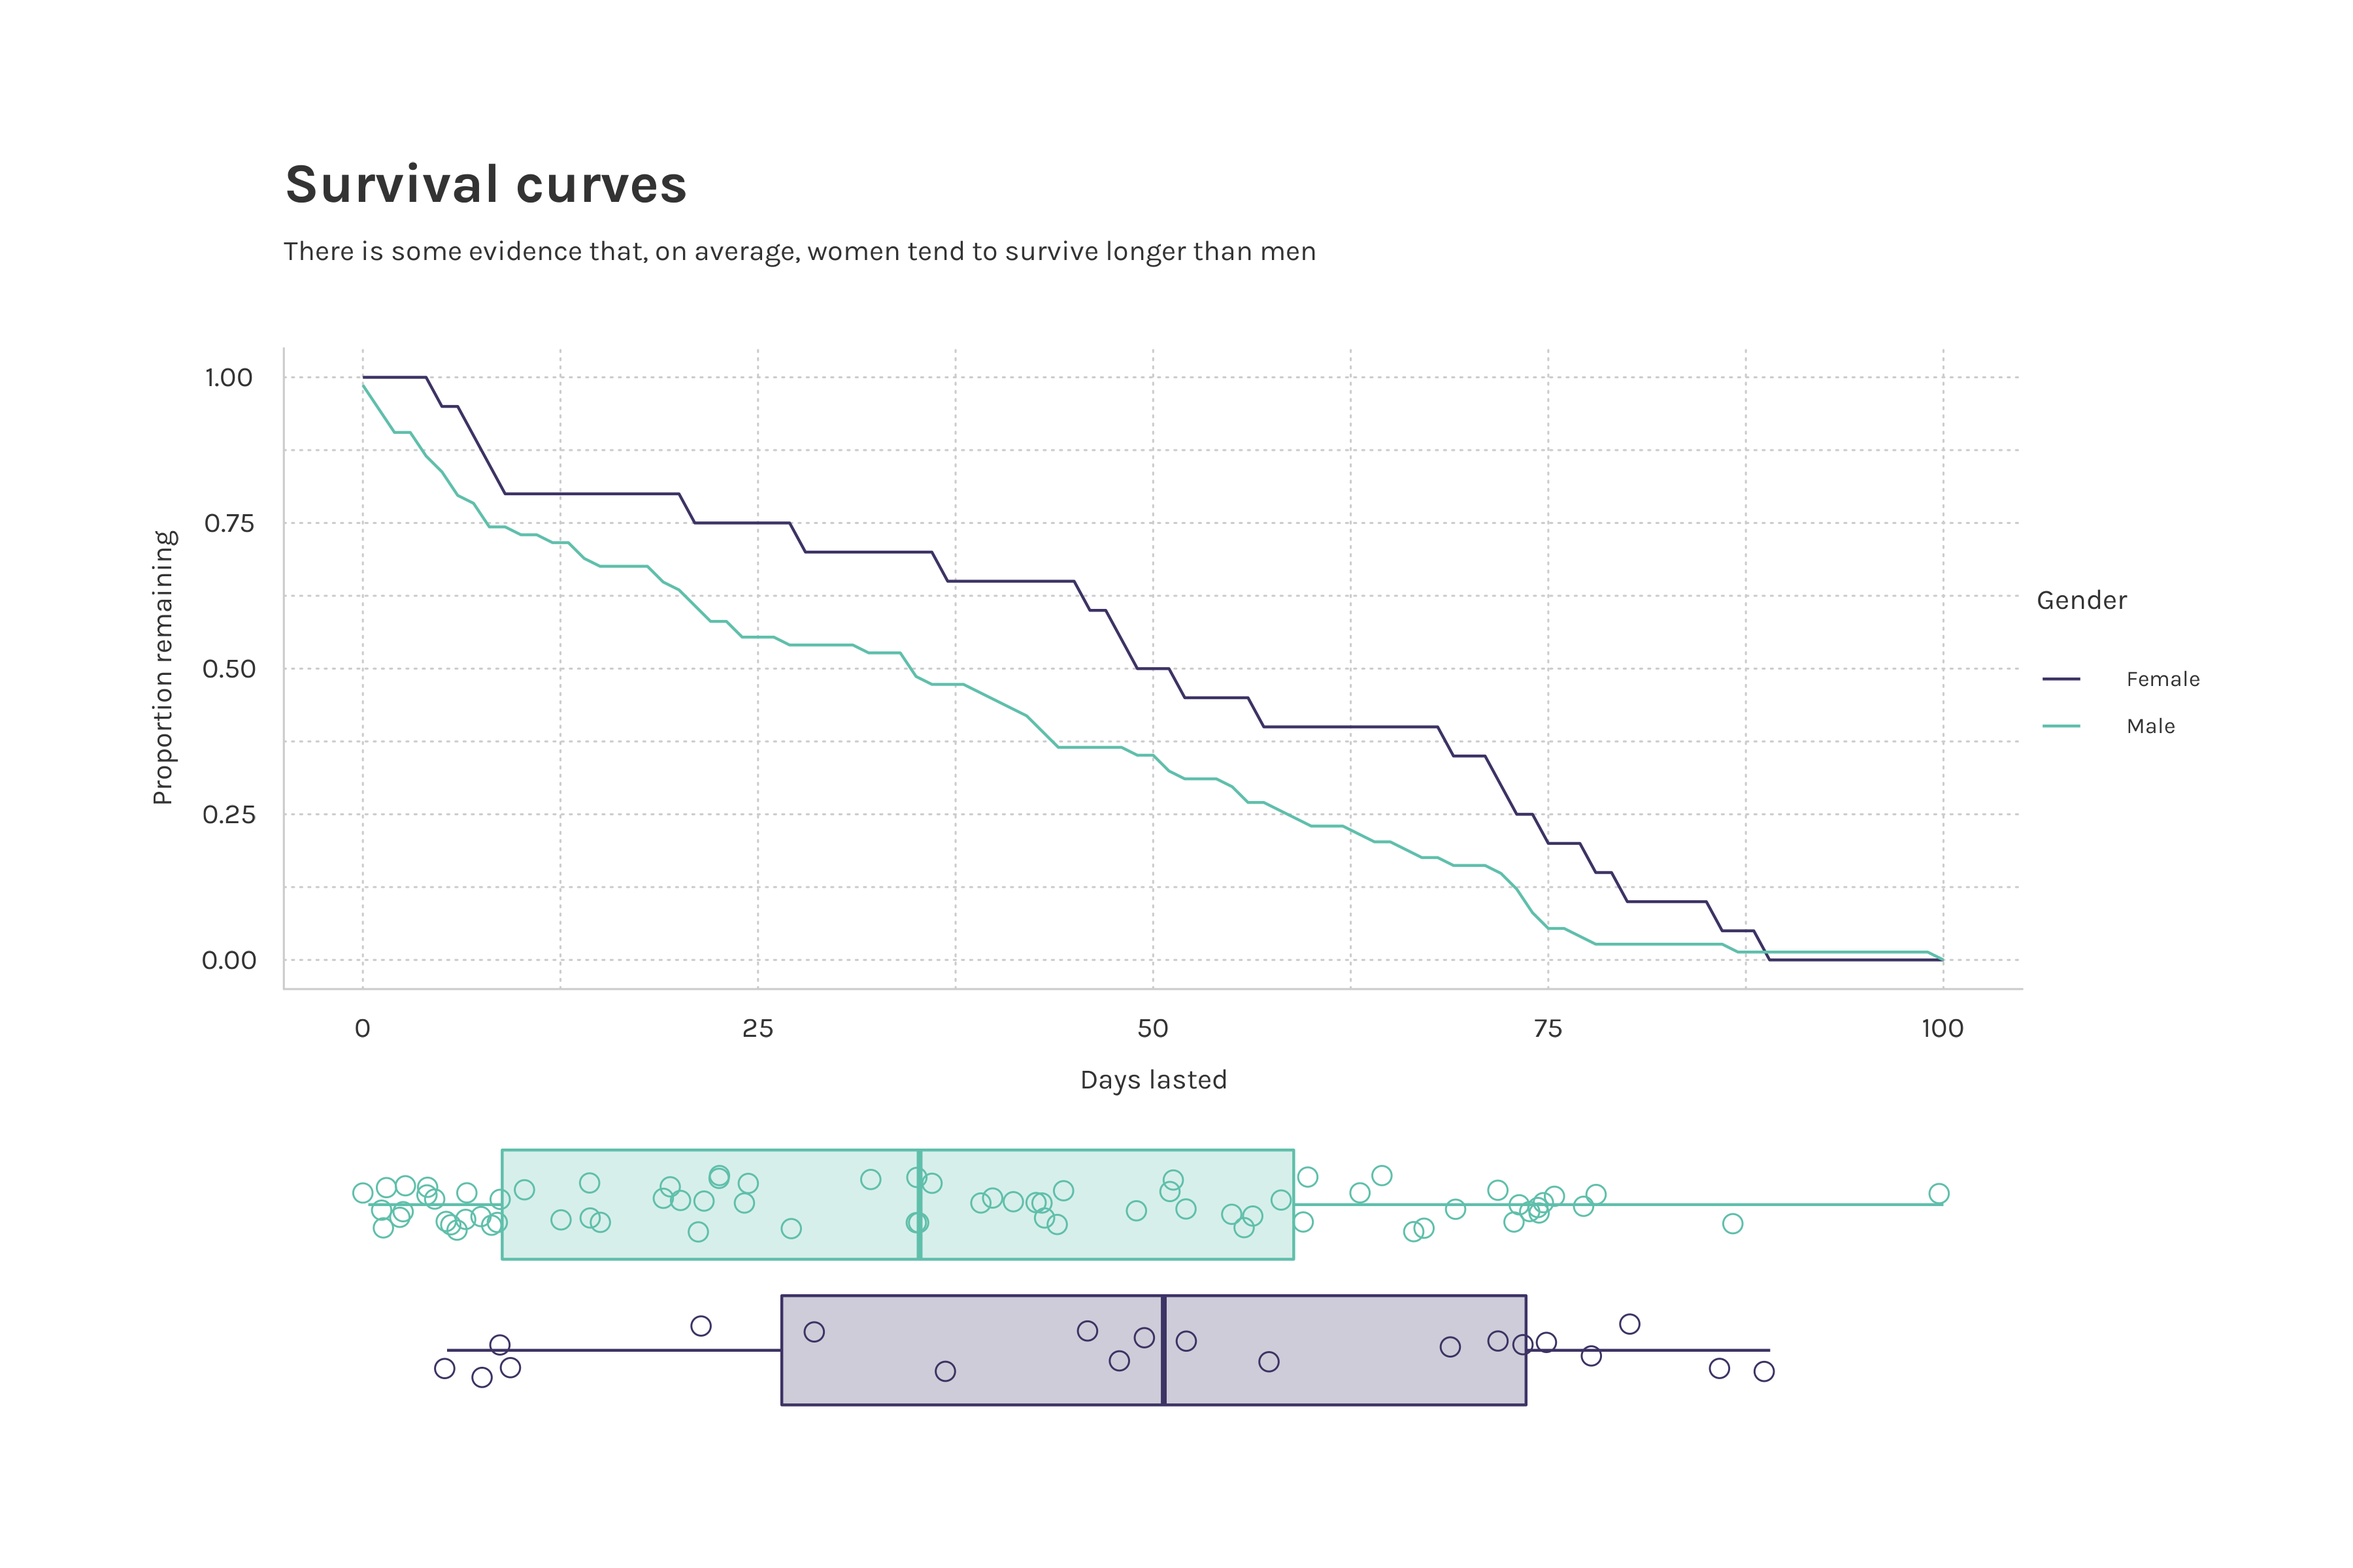
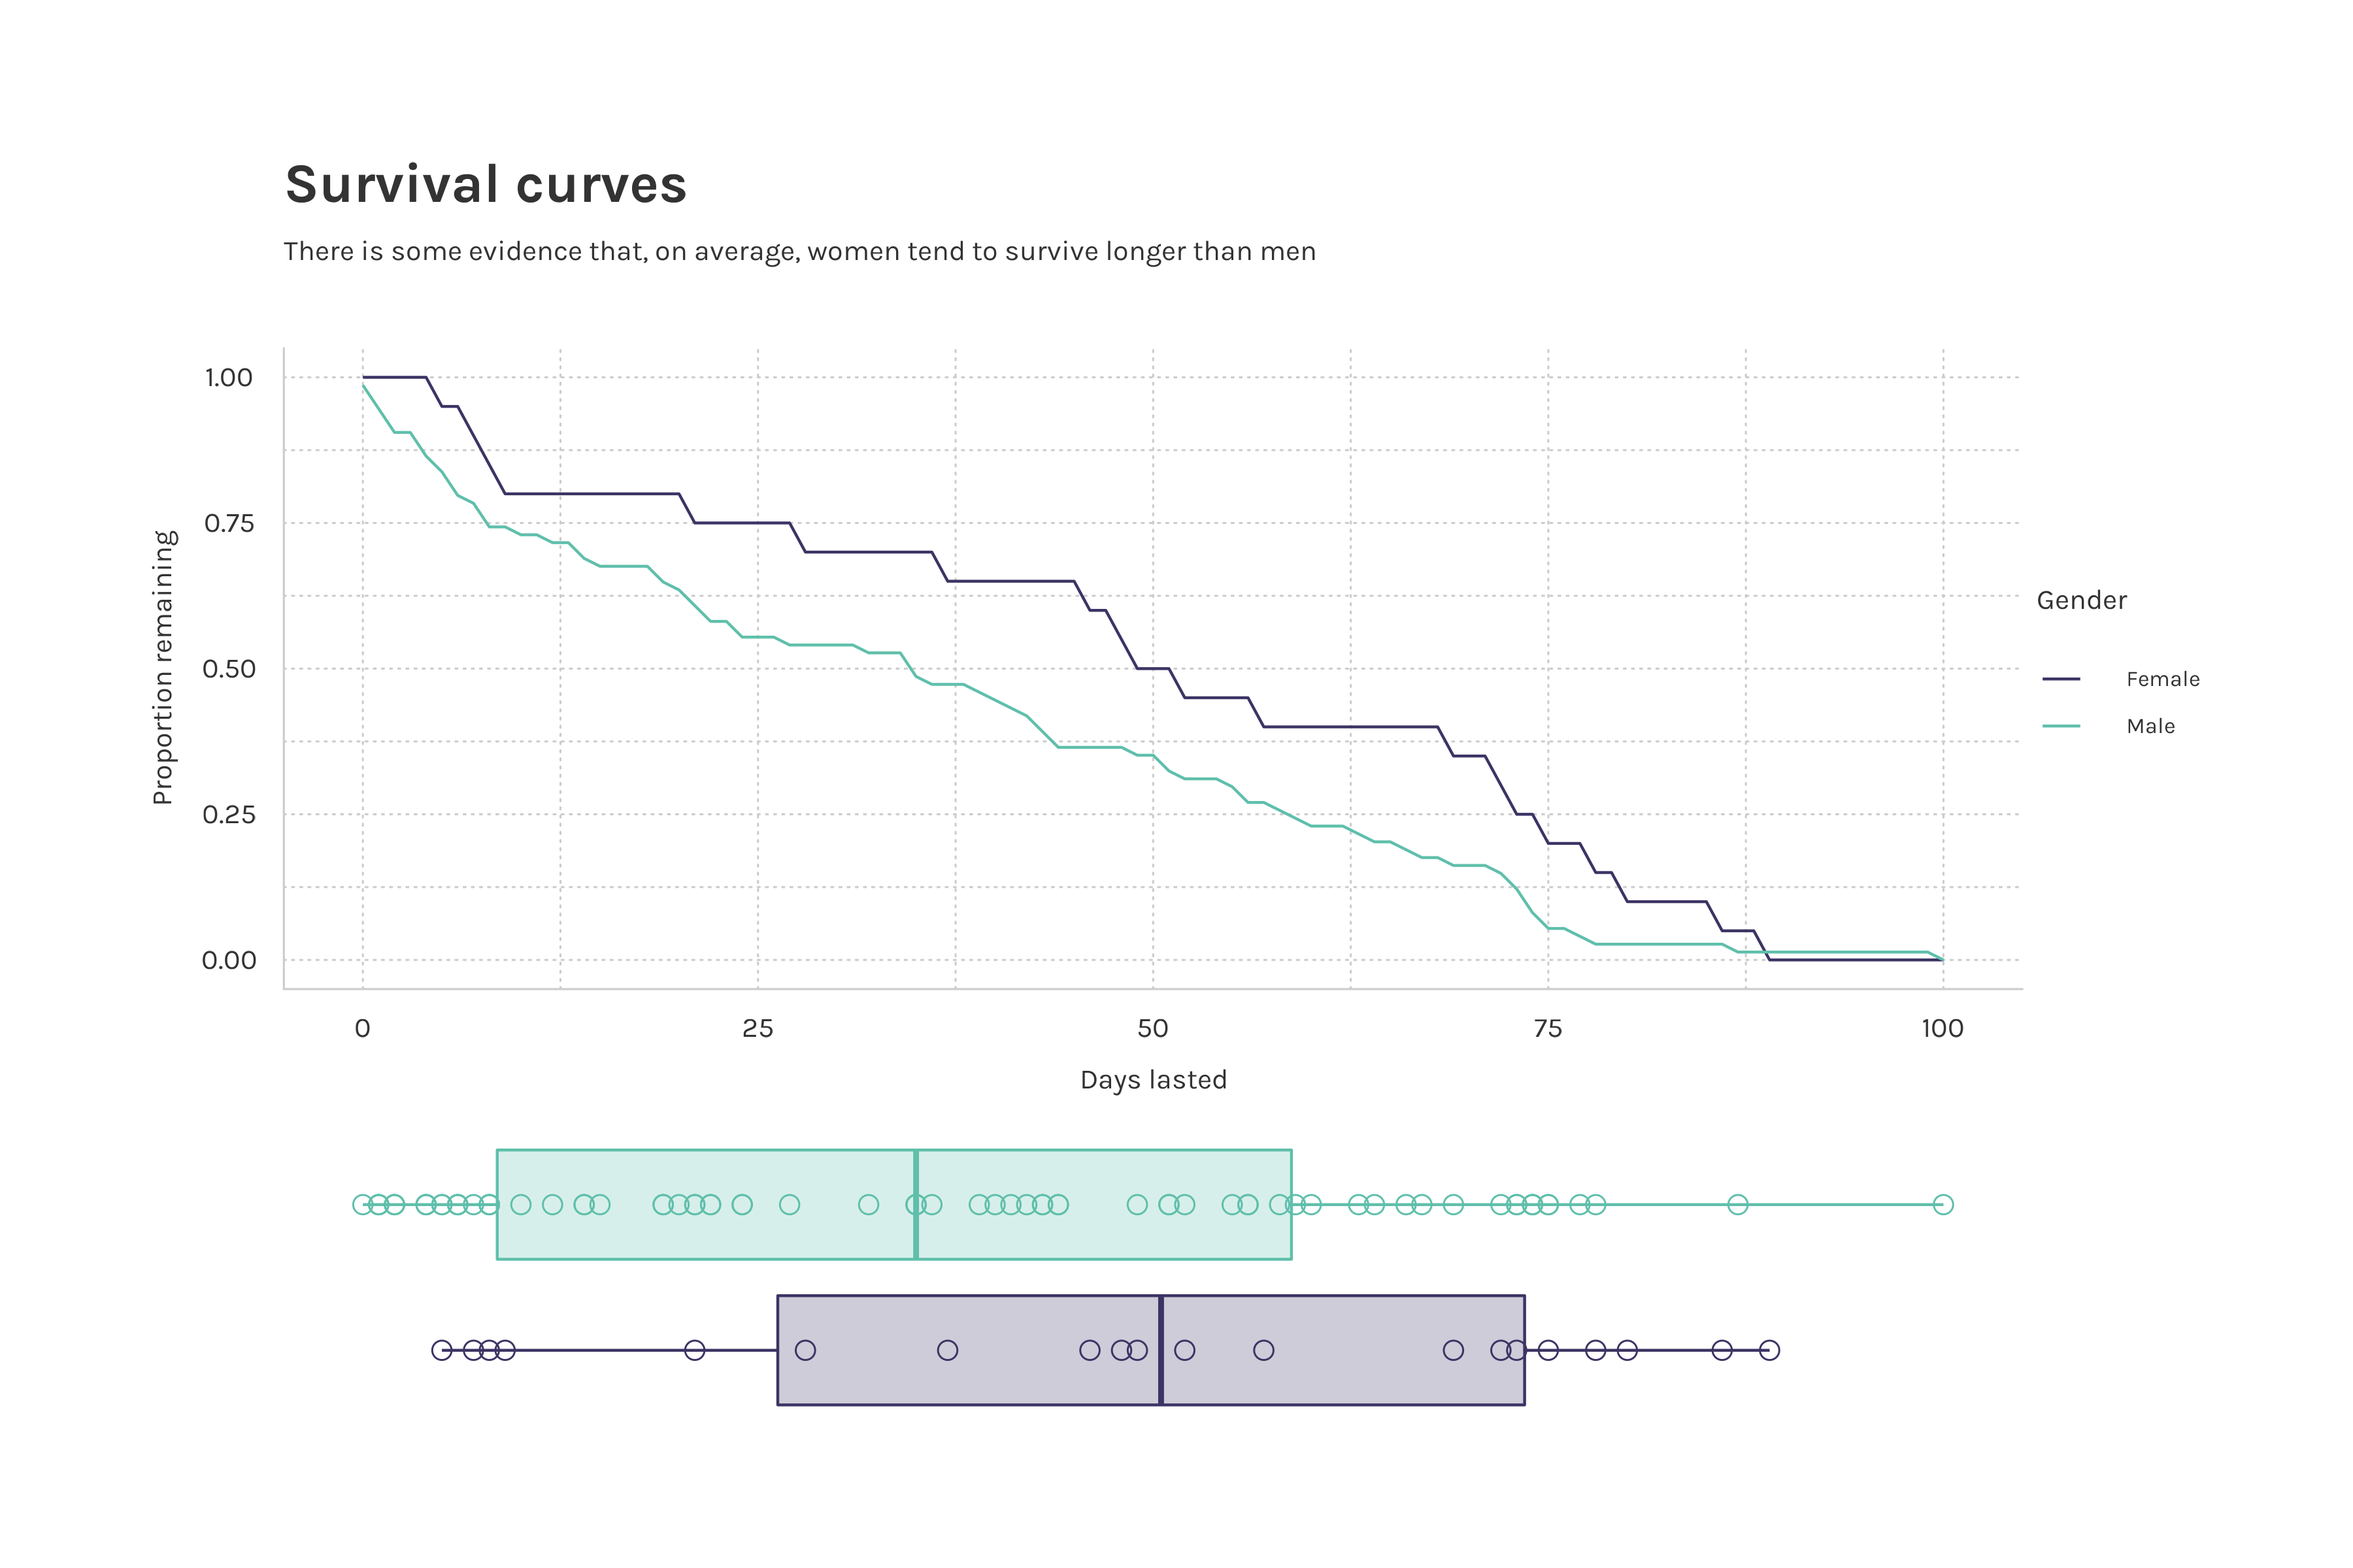
DOC update readme

diff --git a/README.md b/README.md
@@ -25,31 +25,34 @@ demographics, location and profession, result, days lasted, reasons for
 tapping out (detailed and categorised), page URL.
 
 ``` r
-survivalists
+survivalists |> 
+  glimpse()
 ```
 
-    ## # A tibble: 94 × 16
-    ##    season name     age gender city  state country result days_…¹ medic…² reaso…³
-    ##     <dbl> <chr>  <dbl> <chr>  <chr> <chr> <chr>    <dbl>   <dbl> <lgl>   <chr>  
-    ##  1      1 Alan …    40 Male   Blai… Geor… United…      1      56 FALSE   <NA>   
-    ##  2      1 Sam L…    22 Male   Linc… Nebr… United…      2      55 FALSE   Lost t…
-    ##  3      1 Mitch…    34 Male   Bell… Mass… United…      3      43 FALSE   Realiz…
-    ##  4      1 Lucas…    32 Male   Quas… Iowa  United…      4      39 FALSE   Felt c…
-    ##  5      1 Dusti…    37 Male   Pitt… Penn… United…      5       8 FALSE   Fear o…
-    ##  6      1 Brant…    44 Male   Albe… Nort… United…      6       6 FALSE   Consum…
-    ##  7      1 Wayne…    46 Male   Sain… New … Canada       7       4 FALSE   Fear o…
-    ##  8      1 Joe R…    24 Male   Wind… Onta… Canada       8       4 FALSE   Loss o…
-    ##  9      1 Chris…    41 Male   Umat… Flor… United…      9       1 FALSE   Fear o…
-    ## 10      1 Josh …    31 Male   Jack… Ohio  United…     10       0 FALSE   Fear o…
-    ## # … with 84 more rows, 5 more variables: reason_category <chr>, team <chr>,
-    ## #   day_linked_up <dbl>, profession <chr>, url <chr>, and abbreviated variable
-    ## #   names ¹days_lasted, ²medically_evacuated, ³reason_tapped_out
+    ## Rows: 94
+    ## Columns: 16
+    ## $ season              <dbl> 1, 1, 1, 1, 1, 1, 1, 1, 1, 1, 2, 2, 2, 2, 2, 2, 2,…
+    ## $ name                <chr> "Alan Kay", "Sam Larson", "Mitch Mitchell", "Lucas…
+    ## $ age                 <dbl> 40, 22, 34, 32, 37, 44, 46, 24, 41, 31, 50, 44, 45…
+    ## $ gender              <chr> "Male", "Male", "Male", "Male", "Male", "Male", "M…
+    ## $ city                <chr> "Blairsville", "Lincoln", "Bellingham", "Quasqueto…
+    ## $ state               <chr> "Georgia", "Nebraska", "Massachusetts", "Iowa", "P…
+    ## $ country             <chr> "United States", "United States", "United States",…
+    ## $ result              <dbl> 1, 2, 3, 4, 5, 6, 7, 8, 9, 10, 1, 2, 3, 4, 5, 6, 7…
+    ## $ days_lasted         <dbl> 56, 55, 43, 39, 8, 6, 4, 4, 1, 0, 66, 64, 59, 57, …
+    ## $ medically_evacuated <lgl> FALSE, FALSE, FALSE, FALSE, FALSE, FALSE, FALSE, F…
+    ## $ reason_tapped_out   <chr> NA, "Lost the mind game", "Realized he should actu…
+    ## $ reason_category     <chr> NA, "Family / personal", "Family / personal", "Fam…
+    ## $ team                <chr> NA, NA, NA, NA, NA, NA, NA, NA, NA, NA, NA, NA, NA…
+    ## $ day_linked_up       <dbl> NA, NA, NA, NA, NA, NA, NA, NA, NA, NA, NA, NA, NA…
+    ## $ profession          <chr> "Corrections Officer", "Outdoor Gear Retailer", "B…
+    ## $ url                 <chr> "alan-kay", "sam-larson", "mitch-mitchell", "lucas…
 
 ``` r
 df <- expand_grid(
   days_lasted = 0:max(survivalists$days_lasted),
   gender = unique(survivalists$gender)
-  ) |> 
+) |> 
   left_join(
     survivalists |> 
       count(days_lasted, gender),
@@ -66,7 +69,7 @@ df <- expand_grid(
     n_lasted = N-cumsum(n),
     p = n_lasted/N
   ) 
-  
+
 # Kaplan-Meier survival curves
 df |> 
   ggplot(aes(days_lasted, p, colour = gender)) +
@@ -76,6 +79,7 @@ df |>
 survivalists |> 
   ggplot(aes(days_lasted, fill = gender)) +
   geom_boxplot(alpha = 0.5) +
+  geom_jitter(width = 0.2, pch = 1, size = 3) +
   theme_minimal()
 ```
 
@@ -88,25 +92,28 @@ detailed item description and a simplified version for easier
 aggregation and analysis.
 
 ``` r
-loadouts
+loadouts |> 
+  glimpse()
 ```
 
-    ## # A tibble: 940 × 6
-    ##    version season name     item_number item_detailed                       item 
-    ##    <chr>    <dbl> <chr>          <dbl> <chr>                               <chr>
-    ##  1 US           1 Alan Kay           1 Saw                                 Saw  
-    ##  2 US           1 Alan Kay           2 Axe                                 Axe  
-    ##  3 US           1 Alan Kay           3 Sleeping bag                        Slee…
-    ##  4 US           1 Alan Kay           4 Large 2-quart pot                   Pot  
-    ##  5 US           1 Alan Kay           5 Ferro rod                           Ferr…
-    ##  6 US           1 Alan Kay           6 Water bottle/canteen                Cant…
-    ##  7 US           1 Alan Kay           7 300 yards single filament line wit… Fish…
-    ##  8 US           1 Alan Kay           8 Small gauge gill net                Gill…
-    ##  9 US           1 Alan Kay           9 3.5lb wire                          Wire 
-    ## 10 US           1 Alan Kay          10 Knife                               Knife
-    ## # … with 930 more rows
+    ## Rows: 940
+    ## Columns: 6
+    ## $ version       <chr> "US", "US", "US", "US", "US", "US", "US", "US", "US", "U…
+    ## $ season        <dbl> 1, 1, 1, 1, 1, 1, 1, 1, 1, 1, 1, 1, 1, 1, 1, 1, 1, 1, 1,…
+    ## $ name          <chr> "Alan Kay", "Alan Kay", "Alan Kay", "Alan Kay", "Alan Ka…
+    ## $ item_number   <dbl> 1, 2, 3, 4, 5, 6, 7, 8, 9, 10, 1, 2, 3, 4, 5, 6, 7, 8, 9…
+    ## $ item_detailed <chr> "Saw", "Axe", "Sleeping bag", "Large 2-quart pot", "Ferr…
+    ## $ item          <chr> "Saw", "Axe", "Sleeping bag", "Pot", "Ferro rod", "Cante…
 
-Most popular loadout items
+``` r
+loadouts |>
+  count(item) |>
+  mutate(item = forcats::fct_reorder(item, n, max)) |>
+  ggplot(aes(item, n)) +
+  geom_col(fill = pal[1]) +
+  geom_text(aes(item, n + 3, label = n), family = ft, size = 12, colour = txt) +
+  coord_flip()
+```
 
 <img src='dev/images/items.png'>
 
@@ -116,43 +123,42 @@ Contains details of each episode including the title, number of viewers,
 beginning quote and IMDb rating
 
 ``` r
-episodes
+episodes |> 
+  glimpse()
 ```
 
-    ## # A tibble: 98 × 11
-    ##    version season episode_n…¹ episode title air_d…² viewers quote author imdb_…³
-    ##    <chr>    <dbl>       <dbl>   <dbl> <chr> <chr>     <dbl> <chr> <chr>    <dbl>
-    ##  1 US           1           1       1 And … 2015-0…    1.58 I we… Henry…     7.5
-    ##  2 US           1           2       2 Of W… 2015-0…    1.70 If y… Nikit…     7.7
-    ##  3 US           1           3       3 The … 2015-0…    1.86 Exti… Carl …     7.7
-    ##  4 US           1           4       4 Stal… 2015-0…    2.08 Hung… Alber…     7.7
-    ##  5 US           1           5       5 Wind… 2015-0…    2.08 The … Micha…     7.6
-    ##  6 US           1           6       6 Rain… 2015-0…    2.18 Extr… Rober…     7.6
-    ##  7 US           1           7       7 The … 2015-0…    2.09 Huma… David…     7.7
-    ##  8 US           1           8       8 Afte… 2015-0…   NA    This… Wayne      7.7
-    ##  9 US           1           9       9 The … 2015-0…    1.80 If q… Sun T…     7.7
-    ## 10 US           1          10      10 Brok… 2015-0…    1.94 Does… May S…     8.2
-    ## # … with 88 more rows, 1 more variable: n_ratings <dbl>, and abbreviated
-    ## #   variable names ¹episode_number_overall, ²air_date, ³imdb_rating
+    ## Rows: 98
+    ## Columns: 11
+    ## $ version                <chr> "US", "US", "US", "US", "US", "US", "US", "US",…
+    ## $ season                 <dbl> 1, 1, 1, 1, 1, 1, 1, 1, 1, 1, 1, 2, 2, 2, 2, 2,…
+    ## $ episode_number_overall <dbl> 1, 2, 3, 4, 5, 6, 7, 8, 9, 10, 11, 12, 13, 14, …
+    ## $ episode                <dbl> 1, 2, 3, 4, 5, 6, 7, 8, 9, 10, 11, 1, 2, 3, 4, …
+    ## $ title                  <chr> "And So It Begins", "Of Wolf and Man", "The Tal…
+    ## $ air_date               <chr> "2015-06-18", "2015-06-25", "2015-07-02", "2015…
+    ## $ viewers                <dbl> 1.582, 1.697, 1.864, 2.082, 2.082, 2.181, 2.092…
+    ## $ quote                  <chr> "I went to the woods because I wished to live d…
+    ## $ author                 <chr> "Henry David Thoreau", "Nikita Khrushchev", "Ca…
+    ## $ imdb_rating            <dbl> 7.5, 7.7, 7.7, 7.7, 7.6, 7.6, 7.7, 7.7, 7.7, 8.…
+    ## $ n_ratings              <dbl> 135, 110, 104, 104, 99, 99, 97, 99, 93, 102, 75…
 
 ## `seasons`
 
-Season summary includes location and other season level information
+Season summary includes location and other season level information. It
+includes the date of drop off for the 3 latest seasons but need to be
+completed for the first 6 seasons.
 
 ``` r
-seasons
+seasons |> 
+  glimpse()
 ```
 
-    ## # A tibble: 9 × 8
-    ##   version season location         country   n_survivors   lat    lon date_drop…¹
-    ##   <chr>    <dbl> <chr>            <chr>           <dbl> <dbl>  <dbl> <chr>      
-    ## 1 US           1 Quatsino         Canada             10  50.7 -127.  <NA>       
-    ## 2 US           2 Quatsino         Canada             10  50.7 -127.  <NA>       
-    ## 3 US           3 Patagonia        Argentina          10 -41    -68   <NA>       
-    ## 4 US           4 Quatsino         Canada             14  50.7 -127.  <NA>       
-    ## 5 US           5 Selenge Province Mongolia           10  49.8  106.  <NA>       
-    ## 6 US           6 Great Slave Lake Canada             10  61.5 -114.  <NA>       
-    ## 7 US           7 Great Slave Lake Canada             10  61.5 -114.  2019-09-18 
-    ## 8 US           8 Chilko Lake      Canada             10  51.3 -124.  2020-09-18 
-    ## 9 US           9 Nunatsiavut      Canada             10  59.7  -64.3 2021-09-18 
-    ## # … with abbreviated variable name ¹date_drop_off
+    ## Rows: 9
+    ## Columns: 8
+    ## $ version       <chr> "US", "US", "US", "US", "US", "US", "US", "US", "US"
+    ## $ season        <dbl> 1, 2, 3, 4, 5, 6, 7, 8, 9
+    ## $ location      <chr> "Quatsino", "Quatsino", "Patagonia", "Quatsino", "Seleng…
+    ## $ country       <chr> "Canada", "Canada", "Argentina", "Canada", "Mongolia", "…
+    ## $ n_survivors   <dbl> 10, 10, 10, 14, 10, 10, 10, 10, 10
+    ## $ lat           <dbl> 50.72444, 50.72444, -41.00000, 50.72444, 49.75000, 61.50…
+    ## $ lon           <dbl> -127.49806, -127.49806, -68.00000, -127.49806, 106.50000…
+    ## $ date_drop_off <chr> NA, NA, NA, NA, NA, NA, "2019-09-18", "2020-09-18", "202…
